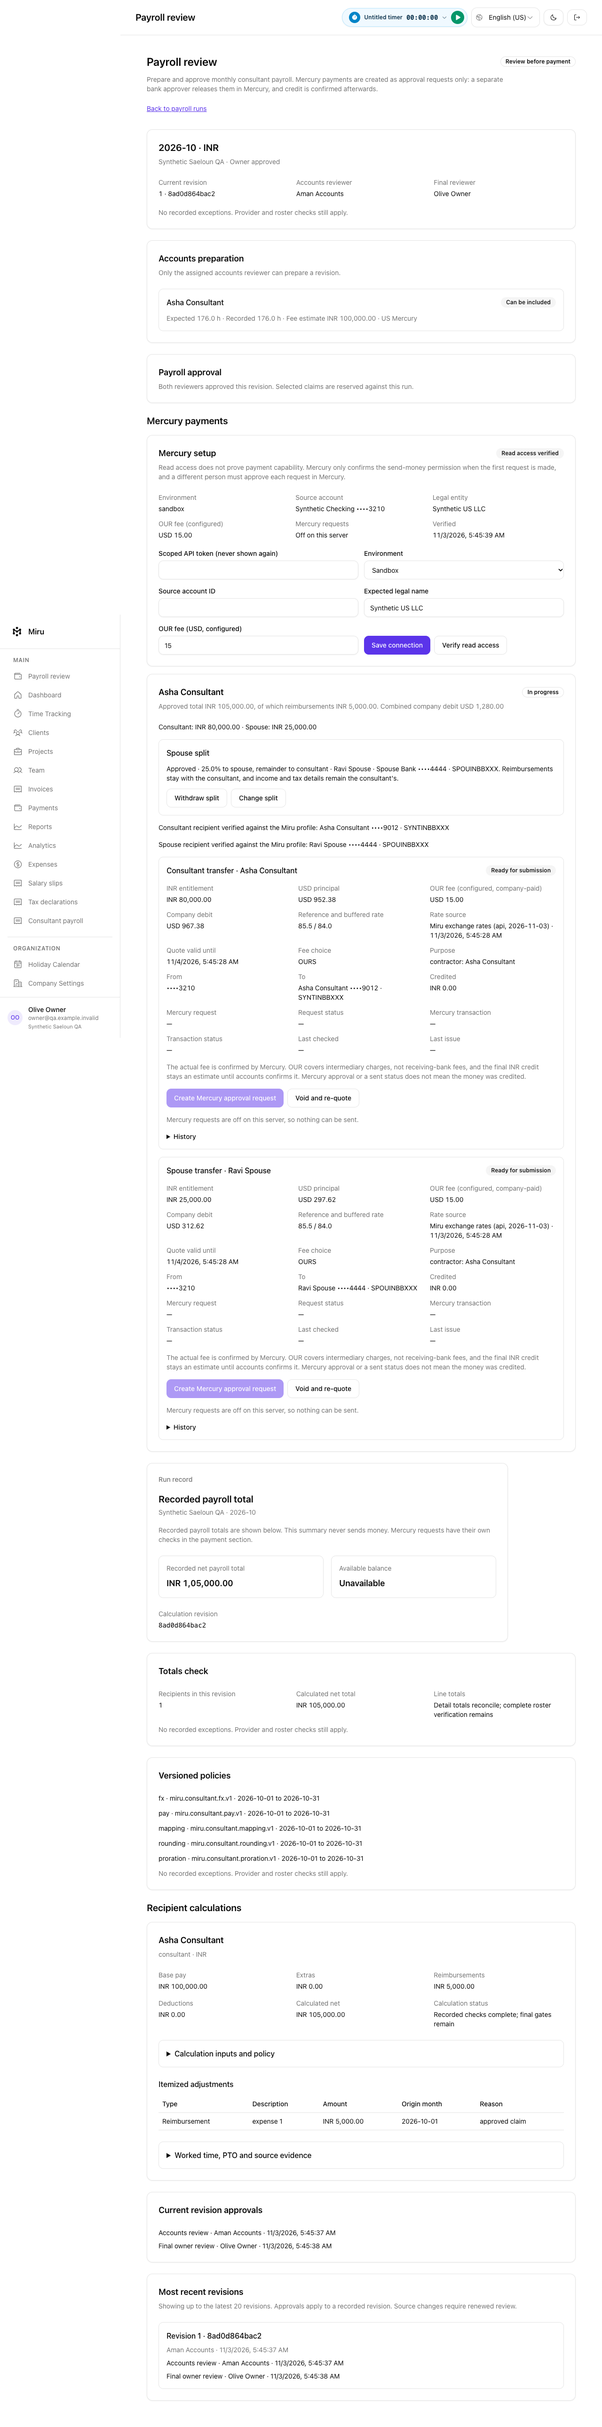
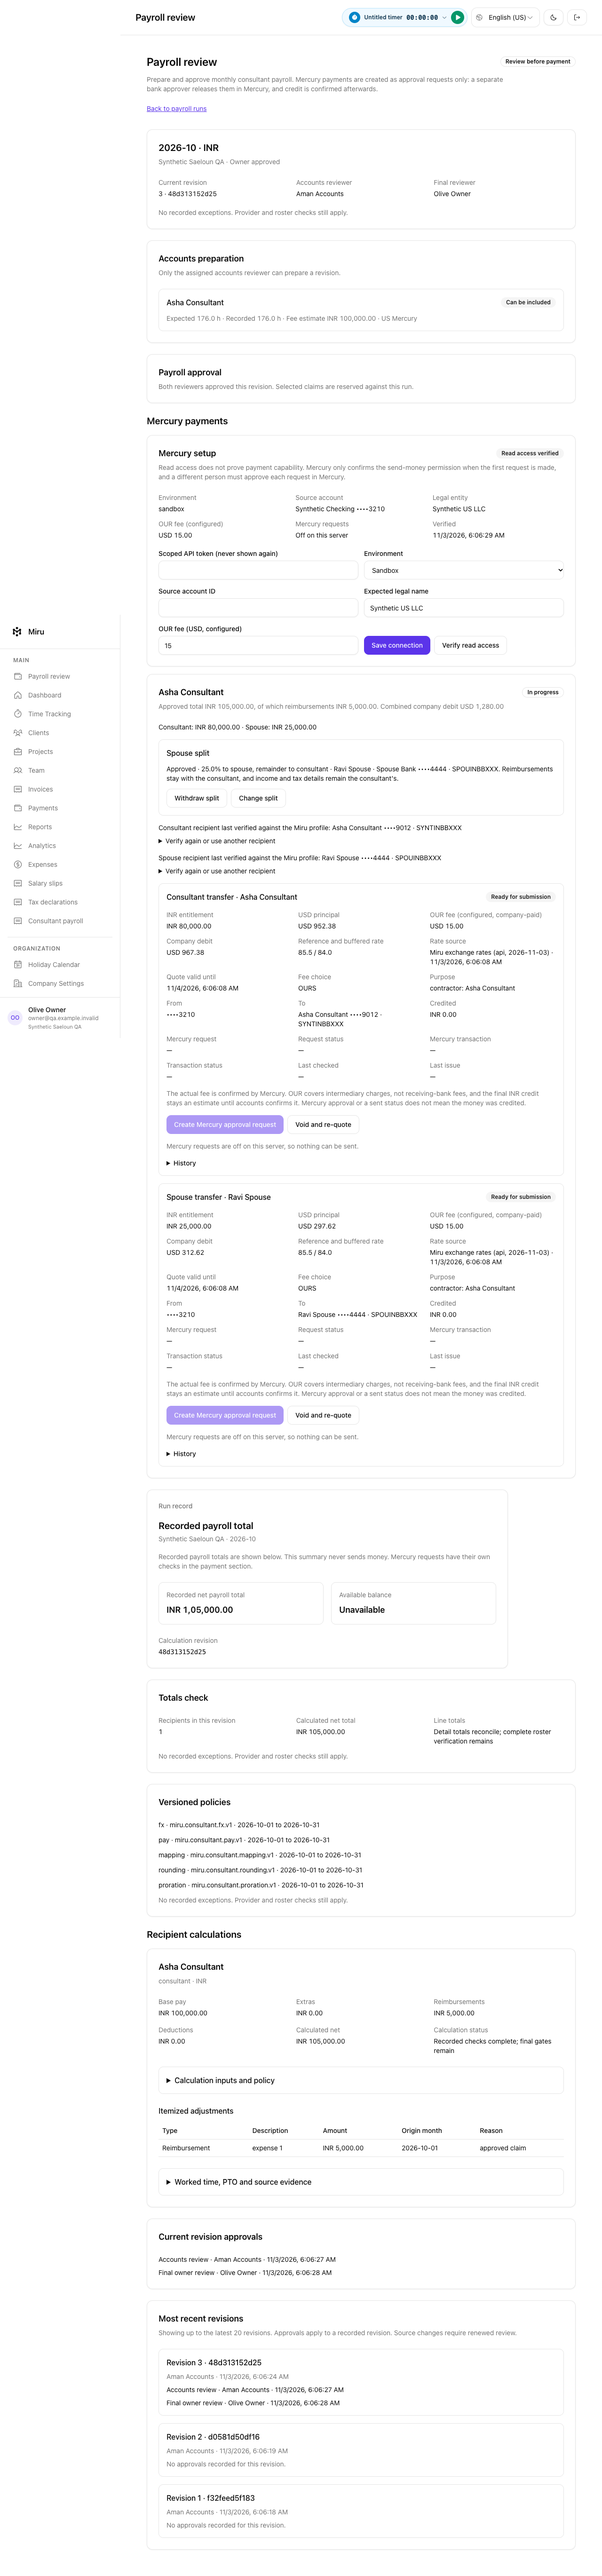
fix: hold Mercury transfers when bank records stay ambiguous
Require an empty transaction read before attesting that a mismatched,
cancelled request moved no money, and put credit on hold when Mercury lists
several transactions for one request. A split now can't change while a
transfer in any run can still complete.

Keep a not-ready consultant or an ineligible claim from blocking a prefilled
revision, and let owners re-verify a recipient when only Mercury's record
changed.

diff --git a/app/javascript/src/components/Payroll/MercuryPayments.tsx b/app/javascript/src/components/Payroll/MercuryPayments.tsx
@@ -614,8 +614,9 @@ const Leg = ({ leg, context }: { leg: MercuryLeg; context: Context }) => {
       )}
       {leg.display_state === "reconciliation_required" && (
         <p className="text-sm">
-          Miru couldn&apos;t match this to a single Mercury wire. Check it in
-          Mercury, then record the credit with its bank reference.
+          {leg.actions.record_credit
+            ? "Miru couldn't match this to a single Mercury wire. Check it in Mercury, then record the credit with its bank reference."
+            : "Miru is holding this transfer because Mercury's records don't match it. Check it in Mercury with accounts. It can't be replaced from Miru yet."}
         </p>
       )}
       {leg.requester_may_approve === true && (
@@ -924,11 +925,27 @@ const Consultant = ({
         {consultant.recipients
           .filter(recipient => recipient.linked && recipient.current)
           .map(recipient => (
-            <p className="text-sm" key={recipient.beneficiary}>
-              {label(recipient.beneficiary)} recipient verified against the Miru
-              profile: {recipient.name} ••••{recipient.account_mask} ·{" "}
-              {recipient.swift_code}
-            </p>
+            <div className="space-y-2" key={recipient.beneficiary}>
+              <p className="text-sm">
+                {label(recipient.beneficiary)} recipient last verified against
+                the Miru profile: {recipient.name} ••••{recipient.account_mask}{" "}
+                · {recipient.swift_code}
+              </p>
+              {manage && (
+                <details>
+                  <summary className="cursor-pointer text-sm">
+                    Verify again or use another recipient
+                  </summary>
+                  <div className="mt-2">
+                    <RecipientLink
+                      beneficiary={recipient.beneficiary}
+                      consultant={consultant}
+                      context={context}
+                    />
+                  </div>
+                </details>
+              )}
+            </div>
           ))}
         {manage &&
           unlinked.map(recipient => (

diff --git a/app/javascript/src/components/Payroll/paymentLabels.ts b/app/javascript/src/components/Payroll/paymentLabels.ts
@@ -25,7 +25,8 @@ const labels: Record<string, string> = {
     "A transfer is in flight, so the split cannot change",
   request_mismatch: "Mercury's request differs from this transfer",
   transaction_mismatch: "Mercury's transaction does not match this transfer",
-  multiple_transactions: "Mercury lists more than one matching transaction",
+  multiple_transactions:
+    "Mercury lists more than one transaction for this request, so credit is on hold",
   transaction_list_incomplete: "Mercury's transaction list was incomplete",
   transaction_not_found: "No transaction found since approval",
   outcome_unknown: "Mercury's response was unclear",
@@ -88,7 +89,7 @@ const labels: Record<string, string> = {
   revision_changed: "A newer revision exists. Prepare again",
   connection_changed: "The Mercury connection changed. Prepare again",
   source_account_ineligible:
-    "The source account is not active or its legal name differs",
+    "Couldn't confirm the source account. It may be inactive, its legal name may differ, or Mercury may have refused the read",
   mercury_read_failed:
     "Mercury refused or didn't answer. Check the token, its read permissions and the environment",
   insufficient_balance: "The balance does not cover principal and fees",

diff --git a/app/javascript/src/components/Payroll/RunPreparation.tsx b/app/javascript/src/components/Payroll/RunPreparation.tsx
@@ -146,14 +146,16 @@ const emptySelection: Selection = {
 
 const initialSelection = (row: PreparationConsultant): Selection => ({
   ...emptySelection,
-  included: row.current.included,
+  included: row.ready && row.current.included,
   unpaid:
     row.current.confirmed_unpaid_hours &&
     Number(row.current.confirmed_unpaid_hours) > 0
       ? row.current.confirmed_unpaid_hours
       : "",
   reason: row.current.unpaid_reason || "",
-  expenseIds: row.current.expense_ids || [],
+  expenseIds: (row.current.expense_ids || []).filter(id =>
+    row.eligible_expenses.some(claim => claim.id === id)
+  ),
   earning: row.current.other_earning || "",
   deduction: row.current.other_deduction || "",
   withholding: row.current.withholding || "",
@@ -384,7 +386,7 @@ export const PrepareRevisionPanel = ({
         expected_digest: data.current_digest,
         idempotency_key: key,
         consultants: data.consultants
-          .filter(row => selections[row.employment_id]?.included)
+          .filter(row => row.ready && selections[row.employment_id]?.included)
           .map(row => {
             const selection = selections[row.employment_id];
 

diff --git a/spec/services/payroll/mercury_review_findings_spec.rb b/spec/services/payroll/mercury_review_findings_spec.rb
@@ -390,8 +390,8 @@ RSpec.describe "Mercury payroll review findings" do
     end
   end
 
-  describe "gate review E4: split lock scope" do
-    it "does not lock a split because of another month's held transfer" do
+  describe "verification N3: split lock across runs" do
+    def in_flight_split
       revision = approve_revision
       arrangement = approved_split(value: "50")
       verified_connection
@@ -400,9 +400,76 @@ RSpec.describe "Mercury payroll review findings" do
       leg = payment.prepare!(actor: owner, employment_id: employment.id, expected_digest: revision.digest, quote:).first
       stub_mercury_reads
       stub_mercury_write(mercury_json(mercury_request("amount" => leg.principal_minor / 100.0)))
-      Payroll::MercuryPayment.new(run).submit!(actor: owner, instruction_id: leg.id, expected_digest: leg.frozen_digest)
+      accepted = Payroll::MercuryPayment.new(run).submit!(actor: owner, instruction_id: leg.id, expected_digest: leg.frozen_digest)
       later = PayrollRun.create!(company:, period: Date.new(2026, 12, 1), currency: "INR", accounts_reviewer: accounts, final_reviewer: owner)
-      expect(Payroll::SplitArrangements.new(later).withdraw!(actor: owner, arrangement_id: arrangement.id).withdrawn?).to be(true)
+      [arrangement, accepted, Payroll::SplitArrangements.new(later)]
+    end
+
+    it "refuses a split change through another run while a transfer can still complete" do
+      arrangement, _leg, other_run = in_flight_split
+      expect(blocked_codes { other_run.withdraw!(actor: owner, arrangement_id: arrangement.id) }).to eq(["split_locked_by_bank_activity"])
+    end
+
+    it "does not lock future months because of a returned transfer" do
+      arrangement, leg, other_run = in_flight_split
+      PayrollPaymentInstruction.where(id: leg.id).update_all(transaction_status: "reversed")
+      expect(other_run.withdraw!(actor: owner, arrangement_id: arrangement.id).withdrawn?).to be(true)
+    end
+  end
+
+  describe "verification N4: known request exit reads transactions" do
+    let!(:leg) do
+      instruction = prepared_instruction
+      stub_mercury_reads
+      stub_mercury_write(mercury_json(mercury_request("amount" => 1.00)))
+      payment.submit!(actor: owner, instruction_id: instruction.id, expected_digest: instruction.frozen_digest)
+    end
+
+    before do
+      stub_listing([])
+      stub_request(:get, "#{mercury_base}/request-send-money/#{request_id}").to_return(mercury_json(mercury_request("amount" => 1.00, "status" => "cancelled")))
+    end
+
+    def attest
+      service.attest_absence!(actor: accounts, instruction_id: leg.id, evidence_reference: "Case 1")
+    end
+
+    it "refuses attestation when the cancelled request has a transaction" do
+      stub_request(:get, transactions_url).to_return(mercury_json({ "total" => 1, "transactions" => [mercury_transaction("amount" => -1.00, "status" => "sent")] }))
+      expect(blocked_codes { attest }).to eq(["request_id_known"])
+      expect(leg.reload.retry_unlocked?).to be(false)
+    end
+
+    it "refuses attestation when transactions cannot be read" do
+      stub_request(:get, transactions_url).to_return(status: 503)
+      expect(blocked_codes { attest }).to eq(["provider_status_unavailable"])
+    end
+
+    it "allows attestation with an empty transaction read" do
+      stub_request(:get, transactions_url).to_return(mercury_json({ "total" => 0, "transactions" => [] }))
+      expect(attest.retry_unlocked?).to be(true)
+    end
+  end
+
+  describe "verification R1: return reported as a second sent transaction" do
+    let!(:leg) do
+      accepted = accepted_instruction
+      stub_status(transactions: [mercury_transaction("status" => "sent")])
+      refresh(accepted)
+    end
+
+    it "reopens the group and bars further credit" do
+      service.record_credit!(actor: accounts, instruction_id: leg.id, amount: "62500.00", credited_on: company.resolved_time_zone.today.iso8601, reference: "UTR1")
+      returned = mercury_transaction("id" => "return-tx", "amount" => 744.05, "kind" => "incomingDomesticWire", "status" => "sent")
+      stub_status(transactions: [mercury_transaction("status" => "sent"), returned])
+      refreshed = refresh(leg)
+      expect(refreshed.last_error_code).to eq("multiple_transactions")
+      expect(refreshed.payroll_payment_group.reload.fully_credited_at).to be_nil
+    end
+
+    it "does not take a credit while two transactions are unexplained" do
+      stub_status(transactions: [mercury_transaction("status" => "sent"), mercury_transaction("id" => "other", "status" => "sent")])
+      expect(refresh(leg).credit_recordable?).to be(false)
     end
   end
 
@@ -447,6 +514,7 @@ RSpec.describe "Mercury payroll review findings" do
 
     it "allows attestation once Mercury shows that request cancelled" do
       stub_request(:get, "#{mercury_base}/request-send-money/#{request_id}").to_return(mercury_json(mercury_request("amount" => 1.00, "status" => "cancelled")))
+      stub_request(:get, transactions_url).to_return(mercury_json({ "total" => 0, "transactions" => [] }))
       attested = service.attest_absence!(actor: accounts, instruction_id: leg.id, evidence_reference: "Case 1")
       expect(attested.retry_unlocked?).to be(true)
       expect(attested.provider_request_id).to be_nil
@@ -468,6 +536,13 @@ RSpec.describe "Mercury payroll review findings" do
     it "does not raise the settled-claim alert from settlement alone" do
       service.record_credit!(actor: accounts, instruction_id: leg.id, amount: "62500.00", credited_on: company.resolved_time_zone.today.iso8601, reference: "UTR1")
       PayrollPaymentGroup.where(id: leg.payroll_payment_group_id).update_all(fully_credited_at: nil)
+      expect(consultant[:settled_claims_need_review]).to be(false)
+    end
+
+    it "does not claim reimbursements were paid when a consultant without claims has a return" do
+      service.record_credit!(actor: accounts, instruction_id: leg.id, amount: "62500.00", credited_on: company.resolved_time_zone.today.iso8601, reference: "UTR1")
+      stub_status(transactions: [mercury_transaction("status" => "reversed")])
+      refresh(leg)
       expect(consultant[:settled_claims_need_review]).to be(false)
     end
 

diff --git a/app/services/payroll/split_arrangements.rb b/app/services/payroll/split_arrangements.rb
@@ -13,7 +13,7 @@ module Payroll
 
       line_ids = @run.current_revision&.payroll_payload&.fetch("lines", [])&.pluck("employment_id") || []
       employment = Employment.kept.where(company_id: @company_id, id: line_ids).find(employment_id)
-      @run.with_lock do
+      employment.with_lock do
         guard_bank_activity!(employment)
         PayrollSplitArrangement.create!(attributes.merge(company_id: @company_id, employment:, requested_by: actor, details:))
       end
@@ -46,7 +46,7 @@ module Payroll
     def withdraw!(actor:, arrangement_id:)
       authorize_owner!(actor)
       arrangement = find(arrangement_id)
-      @run.with_lock do
+      arrangement.employment.with_lock do
         guard_bank_activity!(arrangement.employment)
         arrangement.lock!
         raise MercuryPayment::Blocked.new("split_not_current") unless current?(arrangement) && !arrangement.withdrawn?
@@ -59,8 +59,12 @@ module Payroll
     private
 
       def guard_bank_activity!(employment)
-        groups = PayrollPaymentGroup.where(payroll_run_id: @run.id, employment_id: employment.id, fully_credited_at: nil)
-        raise MercuryPayment::Blocked.new("split_locked_by_bank_activity") if groups.any? { |group| group.in_flight_legs.exists? }
+        groups = PayrollPaymentGroup.where(company_id: @company_id, employment_id: employment.id, fully_credited_at: nil)
+        barred = PayrollPaymentInstruction::CREDIT_BARRED_TRANSACTIONS
+        can_complete = groups.any? do |group|
+          group.in_flight_legs.where("transaction_status IS NULL OR transaction_status NOT IN (?)", barred).exists?
+        end
+        raise MercuryPayment::Blocked.new("split_locked_by_bank_activity") if can_complete
       end
 
       def find(id)

diff --git a/app/services/payroll/mercury_reconciliation.rb b/app/services/payroll/mercury_reconciliation.rb
@@ -201,10 +201,18 @@ module Payroll
       end
 
       def guard_known_request_closed!(instruction)
-        parsed = read_request(connection.client, instruction.provider_request_id)
-        return if !instruction.matches_request?(parsed) && TERMINAL_REQUEST_STATUSES.include?(parsed.status)
+        client = connection.client
+        parsed = read_request(client, instruction.provider_request_id)
+        closed = !instruction.matches_request?(parsed) && TERMINAL_REQUEST_STATUSES.include?(parsed.status)
+        raise MercuryPayment::Blocked.new("request_id_known") unless closed && no_transactions_for?(client, instruction, parsed)
+      end
 
-        raise MercuryPayment::Blocked.new("request_id_known")
+      def no_transactions_for?(client, instruction, parsed)
+        transactions, total = Contract.transactions(client.request_transactions(account_id: instruction.source_account_id,
+          request_id: parsed.request_id, start: (parsed.created_at - 1.day).to_date))
+        total.zero? && transactions.empty?
+      rescue PayrollProviders::Error
+        raise MercuryPayment::Blocked.new("provider_status_unavailable")
       end
 
       def read_request(client, request_id)

diff --git a/app/models/payroll_payment_instruction.rb b/app/models/payroll_payment_instruction.rb
@@ -87,8 +87,13 @@ class PayrollPaymentInstruction < ApplicationRecord
     submission_state == "uncertain" && absent_confirmed_at.present?
   end
 
+  def unexplained_transactions?
+    transaction_link_state == "reconciliation_required" && last_error_code == "multiple_transactions"
+  end
+
   def credit_recordable?
     return false unless submission_state == "accepted" && released_at.nil? && %w[none partial].include?(credit_state)
+    return false if unexplained_transactions?
     return false if CREDIT_BARRED_TRANSACTIONS.include?(transaction_status) || request_status != "approved"
 
     transaction_link_state == "reconciliation_required" || transaction_status == "sent"

diff --git a/app/services/payroll/mercury_payment_review.rb b/app/services/payroll/mercury_payment_review.rb
@@ -82,7 +82,9 @@ module Payroll
       def settled_claims_need_review?(group)
         return false if group.nil? || group.fully_credited_at
 
-        group.payroll_payment_instructions.any? { |leg| leg.payroll_payment_events.any? { |event| event.kind == "group_credit_reopened" } }
+        group.payroll_payment_instructions.any? do |leg|
+          leg.payroll_payment_events.any? { |event| event.kind == "group_credit_reopened" && event.data["settled_expense_ids"].present? }
+        end
       end
 
       def can_prepare?(blockers, group, allocations)

diff --git a/app/models/payroll_payment_group.rb b/app/models/payroll_payment_group.rb
@@ -35,7 +35,7 @@ class PayrollPaymentGroup < ApplicationRecord
   def fully_credited?
     legs = open_legs.to_a
     legs.size == required_legs && legs.all? do |leg|
-      RESOLVED_CREDIT_STATES.include?(leg.credit_state) &&
+      RESOLVED_CREDIT_STATES.include?(leg.credit_state) && !leg.unexplained_transactions? &&
         PayrollPaymentInstruction::CREDIT_BARRED_TRANSACTIONS.exclude?(leg.transaction_status)
     end
   end

diff --git a/app/services/payroll/mercury_payment.rb b/app/services/payroll/mercury_payment.rb
@@ -278,6 +278,7 @@ module Payroll
       def begin_submission!(actor, instruction, expected_digest, provider_state)
         @run.with_lock do
           instruction.lock!
+          instruction.employment.lock!
           check_submittable!(actor, instruction, expected_digest)
           raise Blocked.new("recipient_changed") unless provider_state[:recipient_digest] == instruction.recipient_digest
 

diff --git a/docs/superpowers/specs/2026-11-03-mercury-payroll-approval-requests-design.md b/docs/superpowers/specs/2026-11-03-mercury-payroll-approval-requests-design.md
@@ -39,7 +39,7 @@ The funds flow is the one requested: Saeloun's own Mercury account pays USD to I
 - `payroll_payment_instructions`: one leg. Stable identity is group + beneficiary (partial unique index on unreleased rows). Frozen allocated INR, quote, principal, configured fee, company debit, recipient and bank versions, key. Separate lifecycle columns for submission, request, transaction link and credit.
 - `payroll_payment_events`: append-only, database-enforced. Codes and actors only.
 
-A revision may replace a consultant's line only when no leg is in flight for that consultant. If a leg is in flight, the new line must have the same amounts and claims, or the revision is refused. Claims the run already settled stay selectable for that purpose. Prepared legs are voided by any new revision. A split cannot change or be withdrawn for a run while a leg is in flight in that run, and a leg whose allocation no longer matches cannot be sent. New consultant terms cannot take effect in a month that has bank activity.
+A revision may replace a consultant's line only when no leg is in flight for that consultant. If a leg is in flight, the new line must have the same amounts and claims, or the revision is refused. Claims the run already settled stay selectable for that purpose. Prepared legs are voided by any new revision. A split cannot change or be withdrawn while any leg using it, in any run, can still complete. A returned or failed leg no longer holds that lock. A leg whose allocation no longer matches cannot be sent. New consultant terms cannot take effect in a month that has bank activity.
 
 ## Preparation and approval
 
@@ -81,11 +81,11 @@ Recovery is one of three paths, none based on a timer or an empty list:
 
 1. A retained request ID, re-read and strictly matched.
 2. A list scan where `memo` exactly equals the key links automatically. Any other same-recipient, same-amount candidate is only shown, and the owner must confirm one by ID.
-3. **Manual attestation.** An empty scan is information, never proof, but a listed candidate or an incomplete list refuses attestation. The assigned accounts reviewer records an evidence reference, such as a Mercury support confirmation, stating no request exists. Only then may a different person retry with the same key and payload, or void. The list is read again immediately before either action, and a candidate blocks it. If Mercury returned a request that doesn't match the transfer, attestation is refused until Mercury shows that request rejected or cancelled. Scans look back to the leg's creation, so a later attempt cannot hide the first.
+3. **Manual attestation.** An empty scan is information, never proof, but a listed candidate or an incomplete list refuses attestation. The assigned accounts reviewer records an evidence reference, such as a Mercury support confirmation, stating no request exists. Only then may a different person retry with the same key and payload, or void. The list is read again immediately before either action, and a candidate blocks it. If Mercury returned a request that doesn't match the transfer, attestation is refused until Mercury shows that request rejected or cancelled and its transaction list is empty. Scans look back to the leg's creation, so a later attempt cannot hide the first.
 
 ## Transaction linkage, corrected
 
-Link only when all hold: `requestId` is exact, `kind` is `outgoingPayment`, the account is the source account, the amount is negative, and its magnitude equals the principal. Mercury documents neither the amount's sign nor the wire's kind, so a real wire that differs goes to `reconciliation_required`. That is the safe direction. Any other transaction carrying the request ID, except `wireFee`, also goes to reconciliation. So does no transaction three days after approval. An unlinked transaction's observed status is still stored, and with several transactions the most severe one wins, so a failed or returned wire bars credit. `sent` never implies credited.
+Link only when all hold: `requestId` is exact, `kind` is `outgoingPayment`, the account is the source account, the amount is negative, and its magnitude equals the principal. Mercury documents neither the amount's sign nor the wire's kind, so a real wire that differs goes to `reconciliation_required`. That is the safe direction. Any other transaction carrying the request ID, except `wireFee`, also goes to reconciliation. So does no transaction three days after approval. An unlinked transaction's observed status is still stored, and with several transactions the most severe one wins, so a failed or returned wire bars credit. Several transactions for one request also put credit on hold and reopen a fully credited group, even if all say `sent`, because a return's shape is undocumented. If a real wire always has a second non-fee transaction, sandbox acceptance will show it and this rule needs revisiting. `sent` never implies credited.
 
 Release needs proof too. A terminal request is released only after reading transactions, finding none, and never having seen it approved. A wire that fails after `sent` or after a credit stays held and goes to reconciliation.
 

diff --git a/docs/product-guide/payroll/03-consultant-payroll.md b/docs/product-guide/payroll/03-consultant-payroll.md
@@ -130,8 +130,9 @@ Before you start, a server administrator needs to:
 1. **Set up the connection (owner).** In Mercury, create a Custom API token with the
    `RequestSendMoney` scope (Send Money with Approval) and read access to accounts,
    recipients, send-money requests and transactions. Mercury's scope names for those
-   reads aren't publicly documented, so check them when you create the token. The person
-   who creates the token can't approve its requests.
+   reads aren't publicly documented, so check them when you create the token. Have
+   someone other than the token creator approve requests. Custom scopes can't be edited
+   later, and Mercury deletes tokens that go unused for 45 days.
 
    Enter the token, the source account ID, the expected legal name and the OUR fee. The
    token can't be viewed again. **Verify read access** checks the account and legal name.
@@ -181,8 +182,8 @@ Accounts can still record the credit with its bank reference, and the history st
 The owner or accounts reviewer enters the spouse's legal name and bank details, the
 account number twice, and a percentage or fixed INR amount with the other party
 taking the remainder. The assigned accounts reviewer verifies it and a different person,
-an owner, approves it. Any change needs verifying and approving again, and a split can't
-change for a run while one of its transfers is in flight there.
+an owner, approves it. Any change needs verifying and approving again. A split can't
+change while a transfer using it can still complete, in any month.
 
 The split applies to the fee after adjustments. Reimbursements stay with the
 consultant. Each transfer has its own principal, OUR fee, key and status, so a failed
